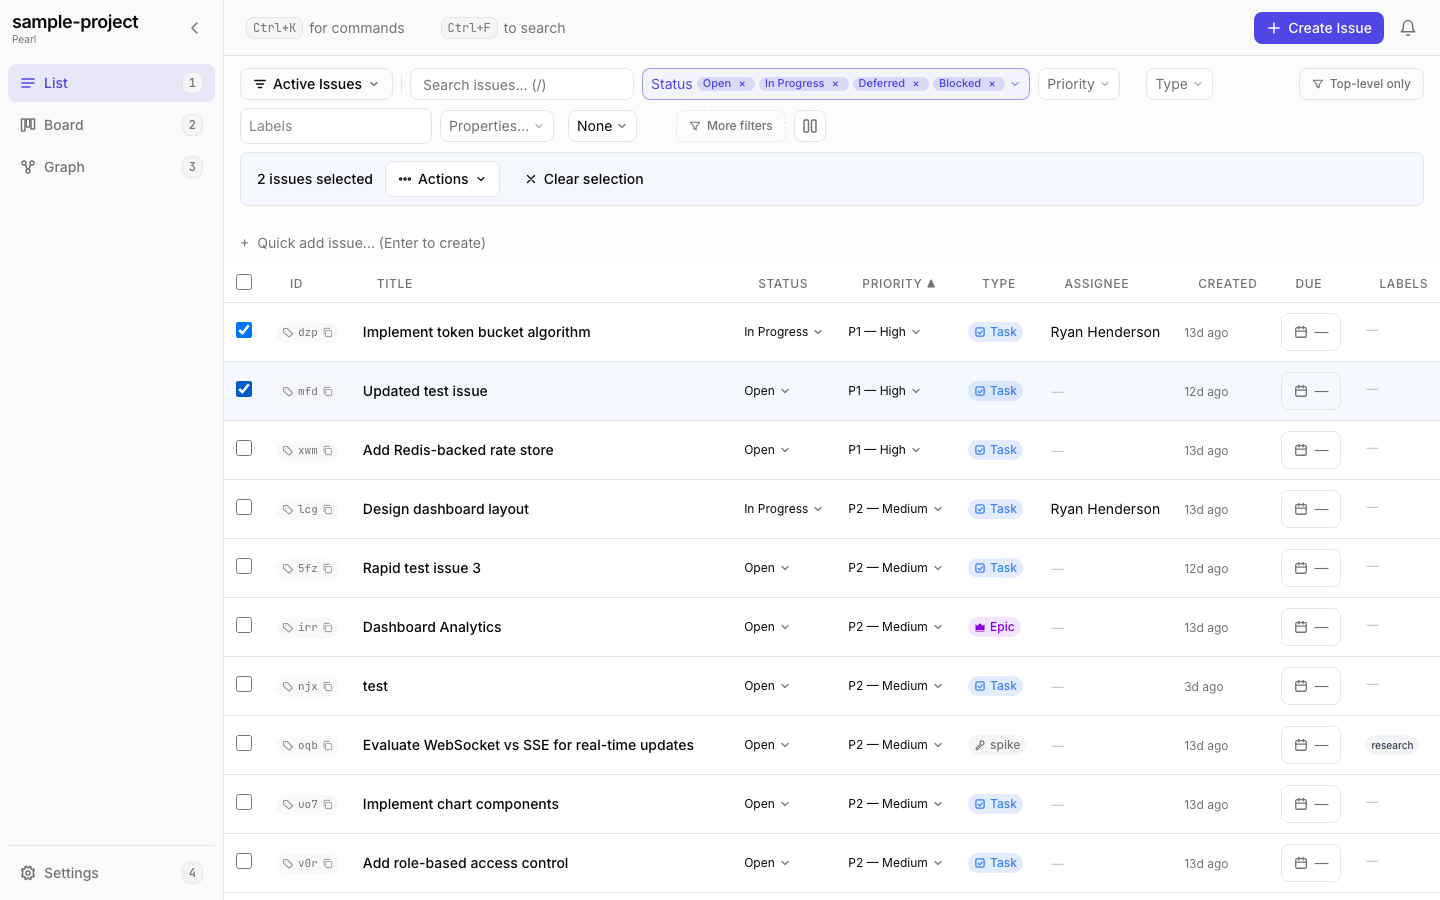
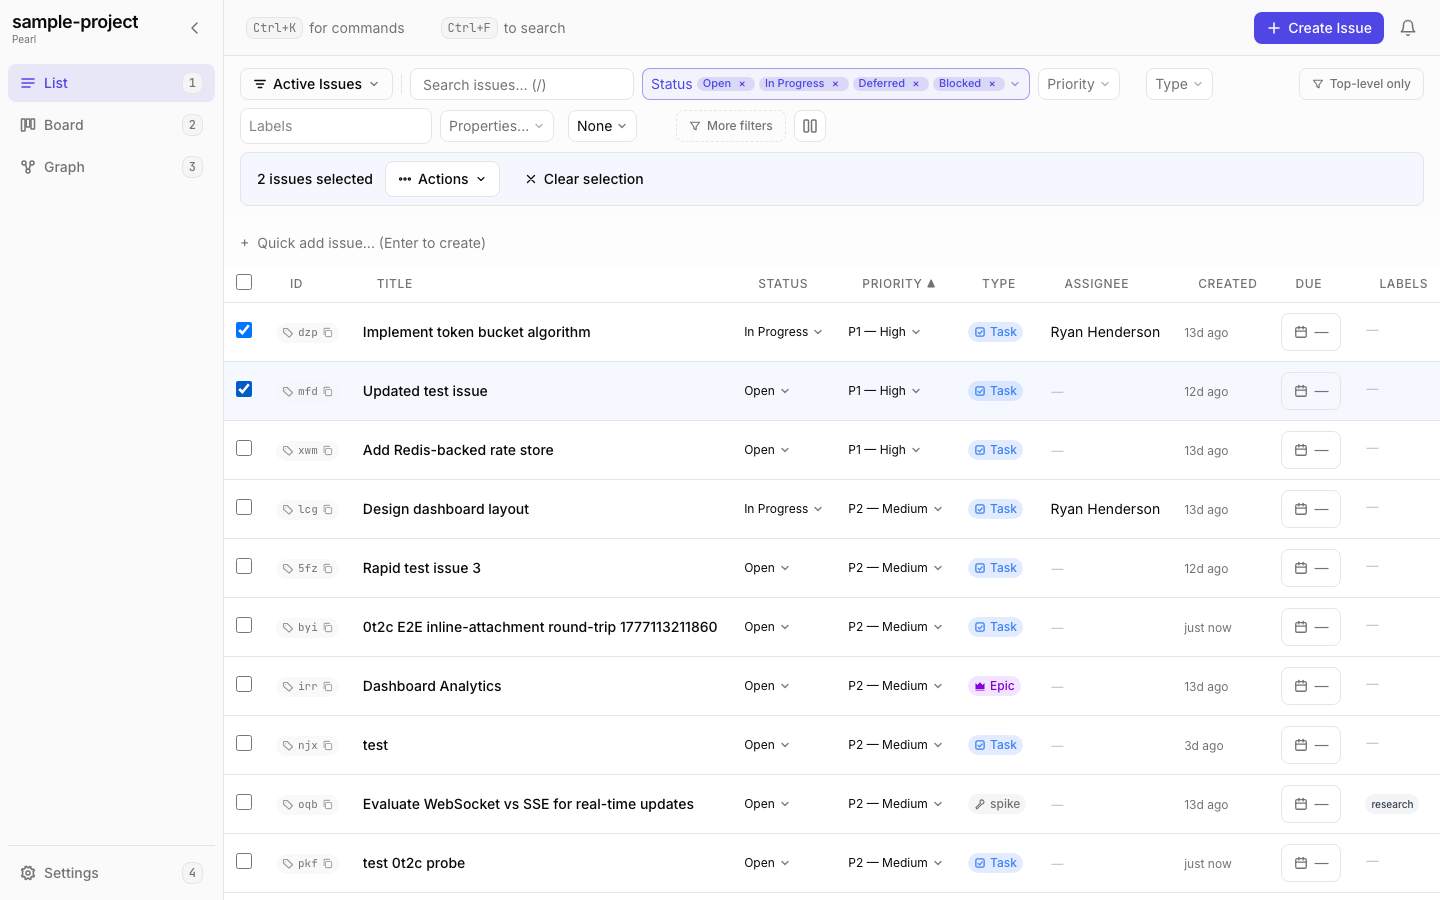
fix(frontend): dropdown menus had transparent panels — use bg-background
The bulk-actions Actions menu and detail Actions menu both used
`bg-popover`, but the theme defines no `--color-popover` variable, so
the panels rendered transparent and table-row text bled through.

Align with the established codebase pattern: `bg-background` is what
custom-select, label-picker, date-picker, notification-panel, and
search-palette already use for popped-out panels.

Also adds a real round-trip E2E test for beads-gui-0t2c (image
attachments inline mode): reads a 32KB PNG, base64-encodes it (~43KB),
POSTs an issue with the Pearl attachment syntax, GETs it back, then
loads the issue in the browser and asserts the <img> renders with
real natural dimensions. Replaces the prior placeholder screenshot.

diff --git a/e2e/polish-evidence.spec.ts b/e2e/polish-evidence.spec.ts
@@ -7,9 +7,10 @@
  * Outputs to docs/polish-evidence/<bead-id>-<slug>.png
  */
 
-import { mkdirSync } from "node:fs";
+import { randomBytes } from "node:crypto";
+import { mkdirSync, readFileSync } from "node:fs";
 import { resolve } from "node:path";
-import { type Page, test } from "@playwright/test";
+import { expect, type Page, test } from "@playwright/test";
 
 const OUT = resolve(__dirname, "../docs/polish-evidence");
 mkdirSync(OUT, { recursive: true });
@@ -402,10 +403,73 @@ test.describe("polish evidence", () => {
     }
   });
 
-  test("0t2c: image attachment inline mode — settings page evidence", async ({ page }) => {
-    await seed(page, "/settings/attachments");
-    await page.waitForTimeout(800);
-    await shoot(page, "0t2c-attachments-settings-inline-mode-config", true);
+  test("0t2c: image attachment inline mode — REAL round-trip", async ({ page, request }) => {
+    // Real test of the 0t2c bug fix: inline base64 attachments larger than
+    // the original 10KB cap must round-trip through API → DB → render.
+    // Reads a real PNG (~21KB → ~28KB base64), POSTs an issue with the
+    // Pearl attachment syntax, then verifies the rendered <img> appears.
+    const pngPath = resolve(__dirname, "../docs/demo/setup-wizard-server-config.png");
+    const pngBytes = readFileSync(pngPath);
+    const base64 = pngBytes.toString("base64");
+    const ref = randomBytes(6).toString("hex"); // 12 hex chars
+    const stamp = Date.now();
+
+    const description = [
+      `# 0t2c regression evidence (${stamp})`,
+      "",
+      `Inline image attachment of ${pngBytes.length} raw bytes (${base64.length} base64 chars).`,
+      "Pre-fix this would have been rejected by the 10KB API field schema.",
+      "",
+      `[img:${ref}]`,
+      "",
+      `<!-- pearl-attachment:v1:${ref}`,
+      "type: inline",
+      "mime: image/png",
+      `data: ${base64}`,
+      "-->",
+    ].join("\n");
+
+    // POST a fresh issue via API
+    const createRes = await request.post("http://127.0.0.1:3456/api/issues", {
+      data: {
+        title: `0t2c E2E inline-attachment round-trip ${stamp}`,
+        description,
+        issue_type: "task",
+        priority: 2,
+      },
+    });
+    expect(createRes.ok()).toBeTruthy();
+    const created = (await createRes.json()) as { data: { id: string } };
+    const issueId = created.data.id;
+
+    // Read it back to verify the description survived round-trip intact
+    const readRes = await request.get(`http://127.0.0.1:3456/api/issues/${issueId}`);
+    expect(readRes.ok()).toBeTruthy();
+    const read = (await readRes.json()) as { description: string };
+    expect(read.description.length).toBeGreaterThan(base64.length);
+    expect(read.description).toContain(`[img:${ref}]`);
+    expect(read.description).toContain(`pearl-attachment:v1:${ref}`);
+    expect(read.description).toContain(base64.slice(0, 100));
+    expect(read.description).toContain(base64.slice(-100));
+
+    // Now render in browser and capture the actual decoded image
+    await seed(page, `/issues/${issueId}`);
+    await page.waitForURL(`**/issues/${issueId}`);
+    // Wait for the rendered <img> to appear (decoded from base64 in markdown)
+    const img = page
+      .locator("img")
+      .filter({ hasNot: page.locator("svg") })
+      .first();
+    await img.waitFor({ state: "visible", timeout: 10_000 });
+    // Verify the image actually has natural dimensions (not a broken icon)
+    const dims = await img.evaluate((el: HTMLImageElement) => ({
+      w: el.naturalWidth,
+      h: el.naturalHeight,
+    }));
+    expect(dims.w).toBeGreaterThan(50);
+    expect(dims.h).toBeGreaterThan(50);
+
+    await shoot(page, "0t2c-real-roundtrip-rendered", true);
   });
 
   test("huds: detail Edit links use pencil icon", async ({ page }) => {

diff --git a/packages/frontend/src/components/issue-table/bulk-action-bar.tsx b/packages/frontend/src/components/issue-table/bulk-action-bar.tsx
@@ -201,7 +201,7 @@ export function BulkActionBar({
             ref={menuRef}
             role="menu"
             onKeyDown={handleMenuKeyDown}
-            className="absolute top-full left-0 z-50 mt-1 w-56 rounded border border-border bg-popover py-1 shadow-md"
+            className="absolute top-full left-0 z-50 mt-1 w-56 rounded border border-border bg-background py-1 shadow-md"
           >
             <MenuItem
               icon={<ReassignIcon />}
@@ -462,7 +462,7 @@ function SubmenuPanel({
 }) {
   return (
     <div
-      className={`absolute top-full left-0 z-50 mt-1 rounded border border-border bg-popover shadow-md ${
+      className={`absolute top-full left-0 z-50 mt-1 rounded border border-border bg-background shadow-md ${
         wide ? "w-64" : "w-48"
       }`}
     >

diff --git a/packages/frontend/src/components/detail/detail-actions-menu.tsx b/packages/frontend/src/components/detail/detail-actions-menu.tsx
@@ -120,7 +120,7 @@ export function DetailActionsMenu({
           ref={menuRef}
           role="menu"
           onKeyDown={handleMenuKeyDown}
-          className="absolute top-full right-0 z-50 mt-1 w-48 rounded border border-border bg-popover py-1 shadow-md"
+          className="absolute top-full right-0 z-50 mt-1 w-48 rounded border border-border bg-background py-1 shadow-md"
         >
           {!isClosed && (
             <>
